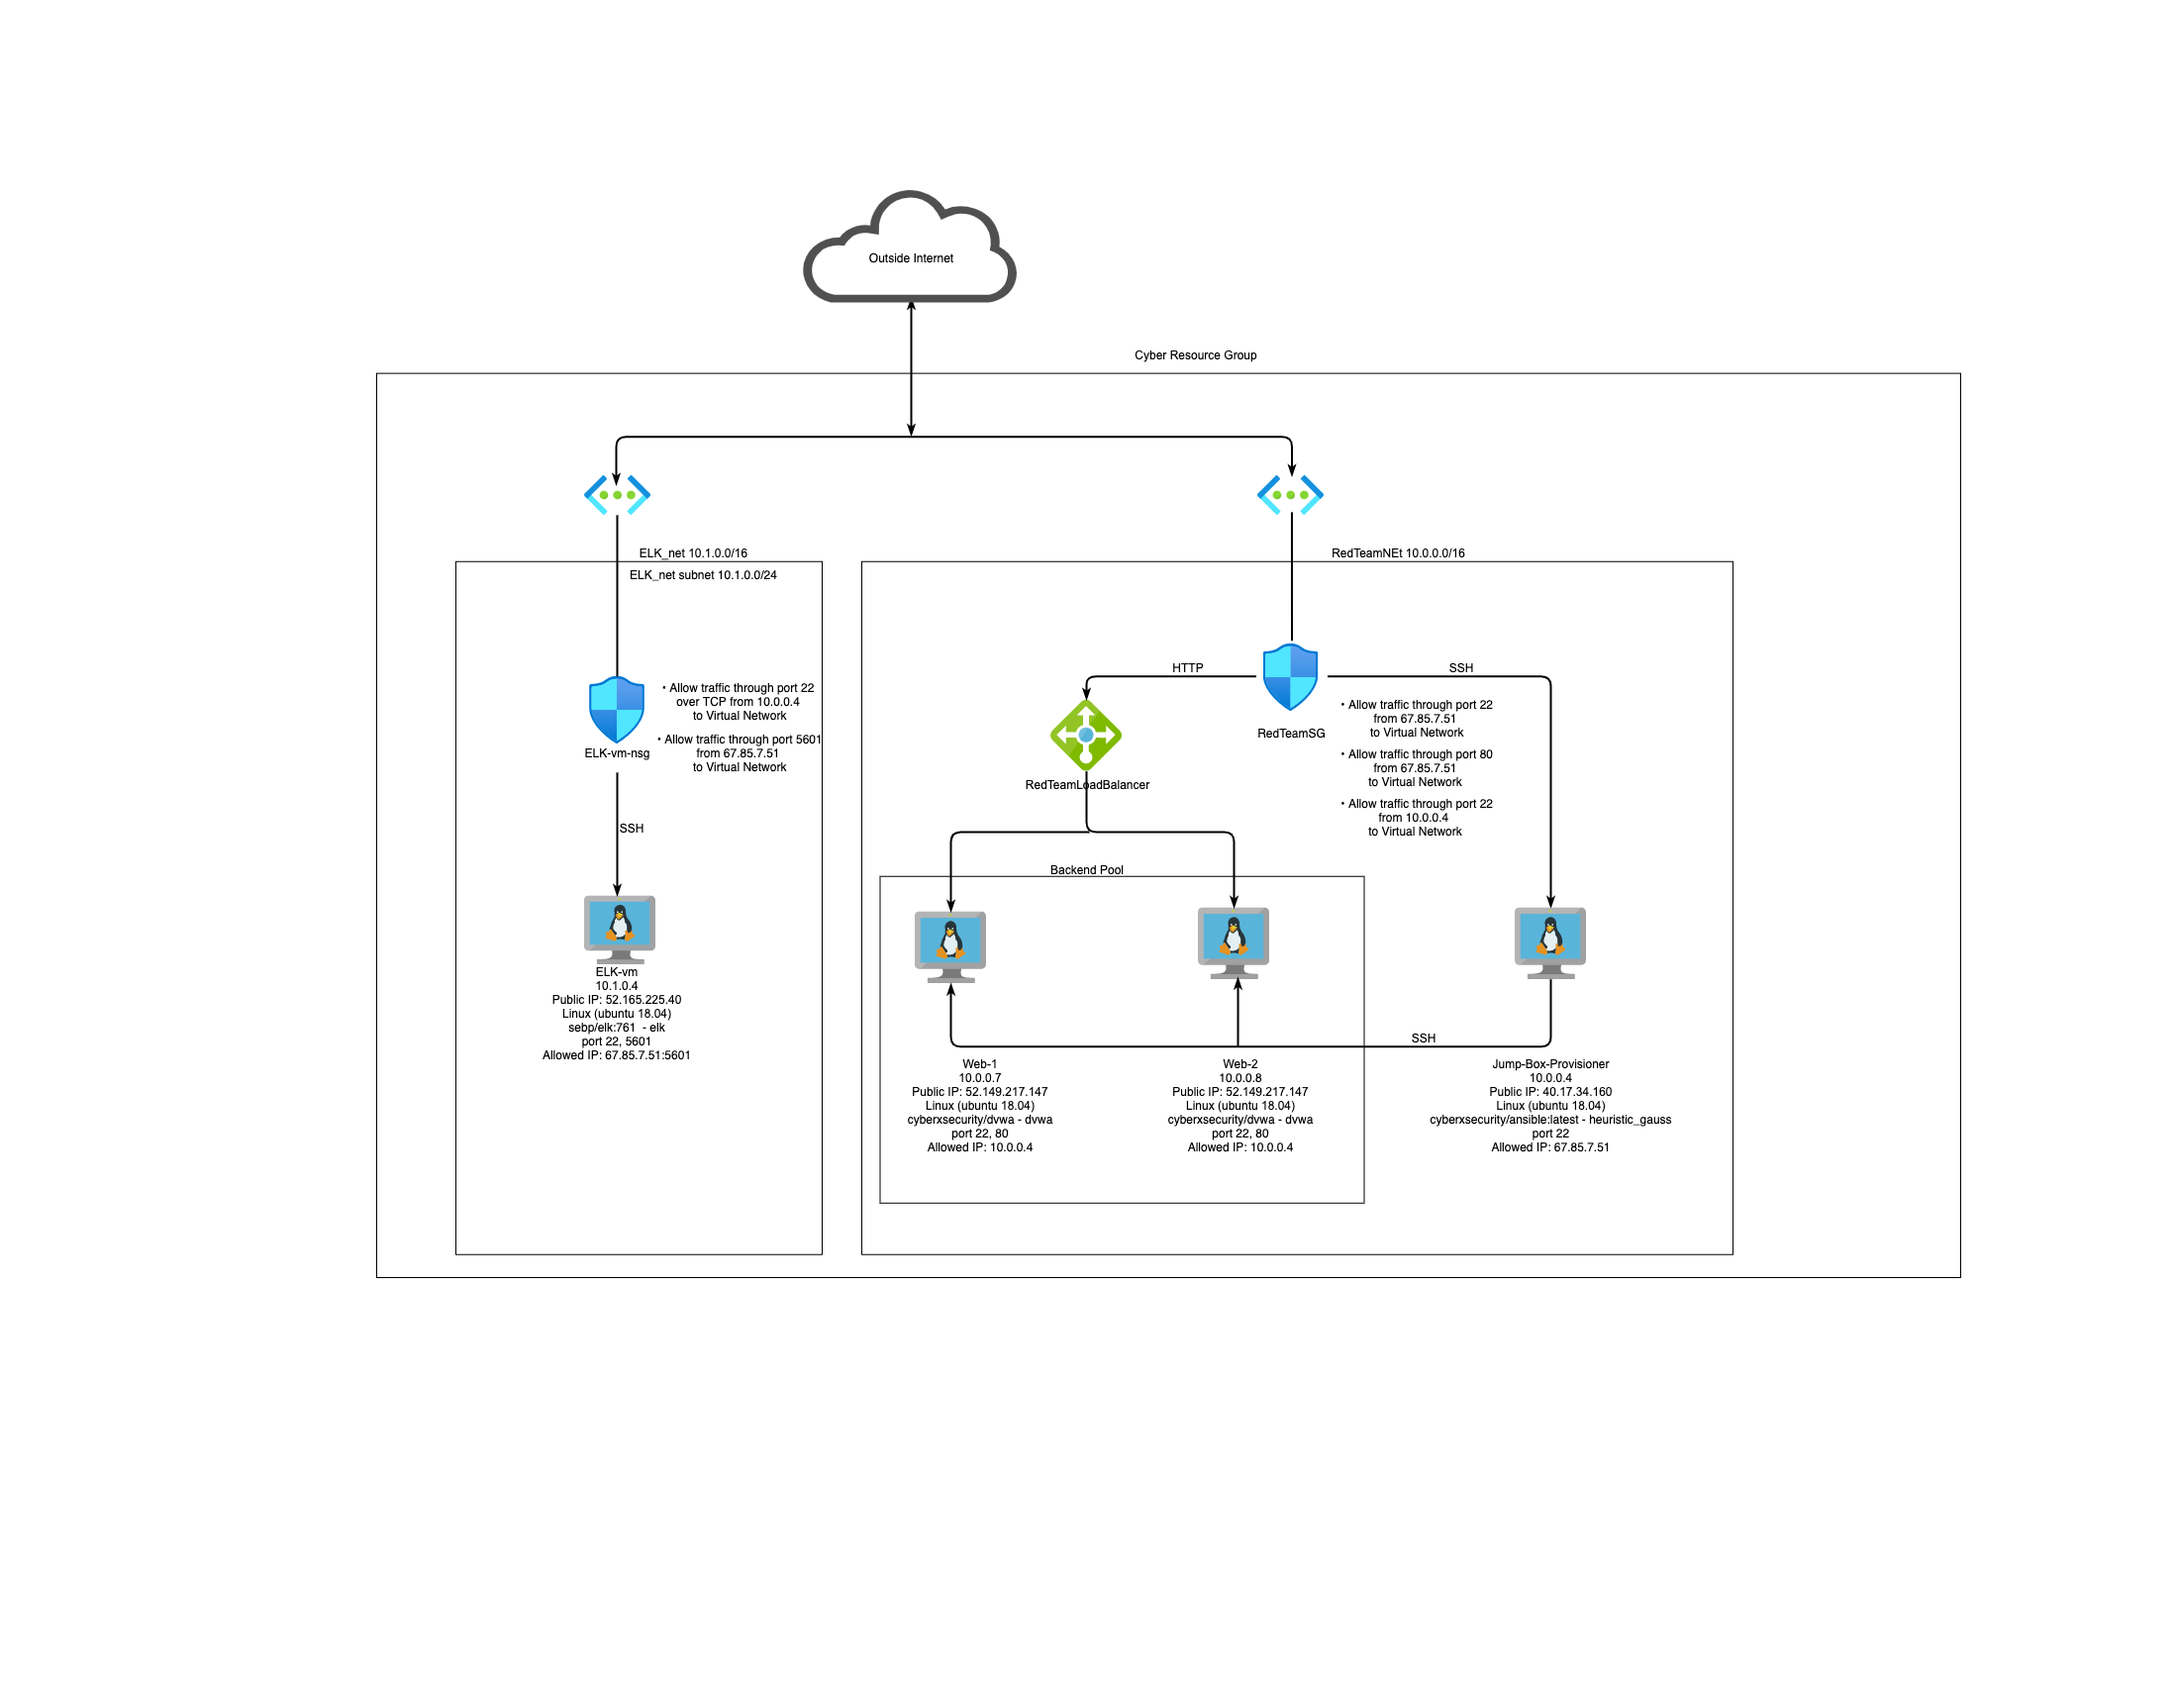
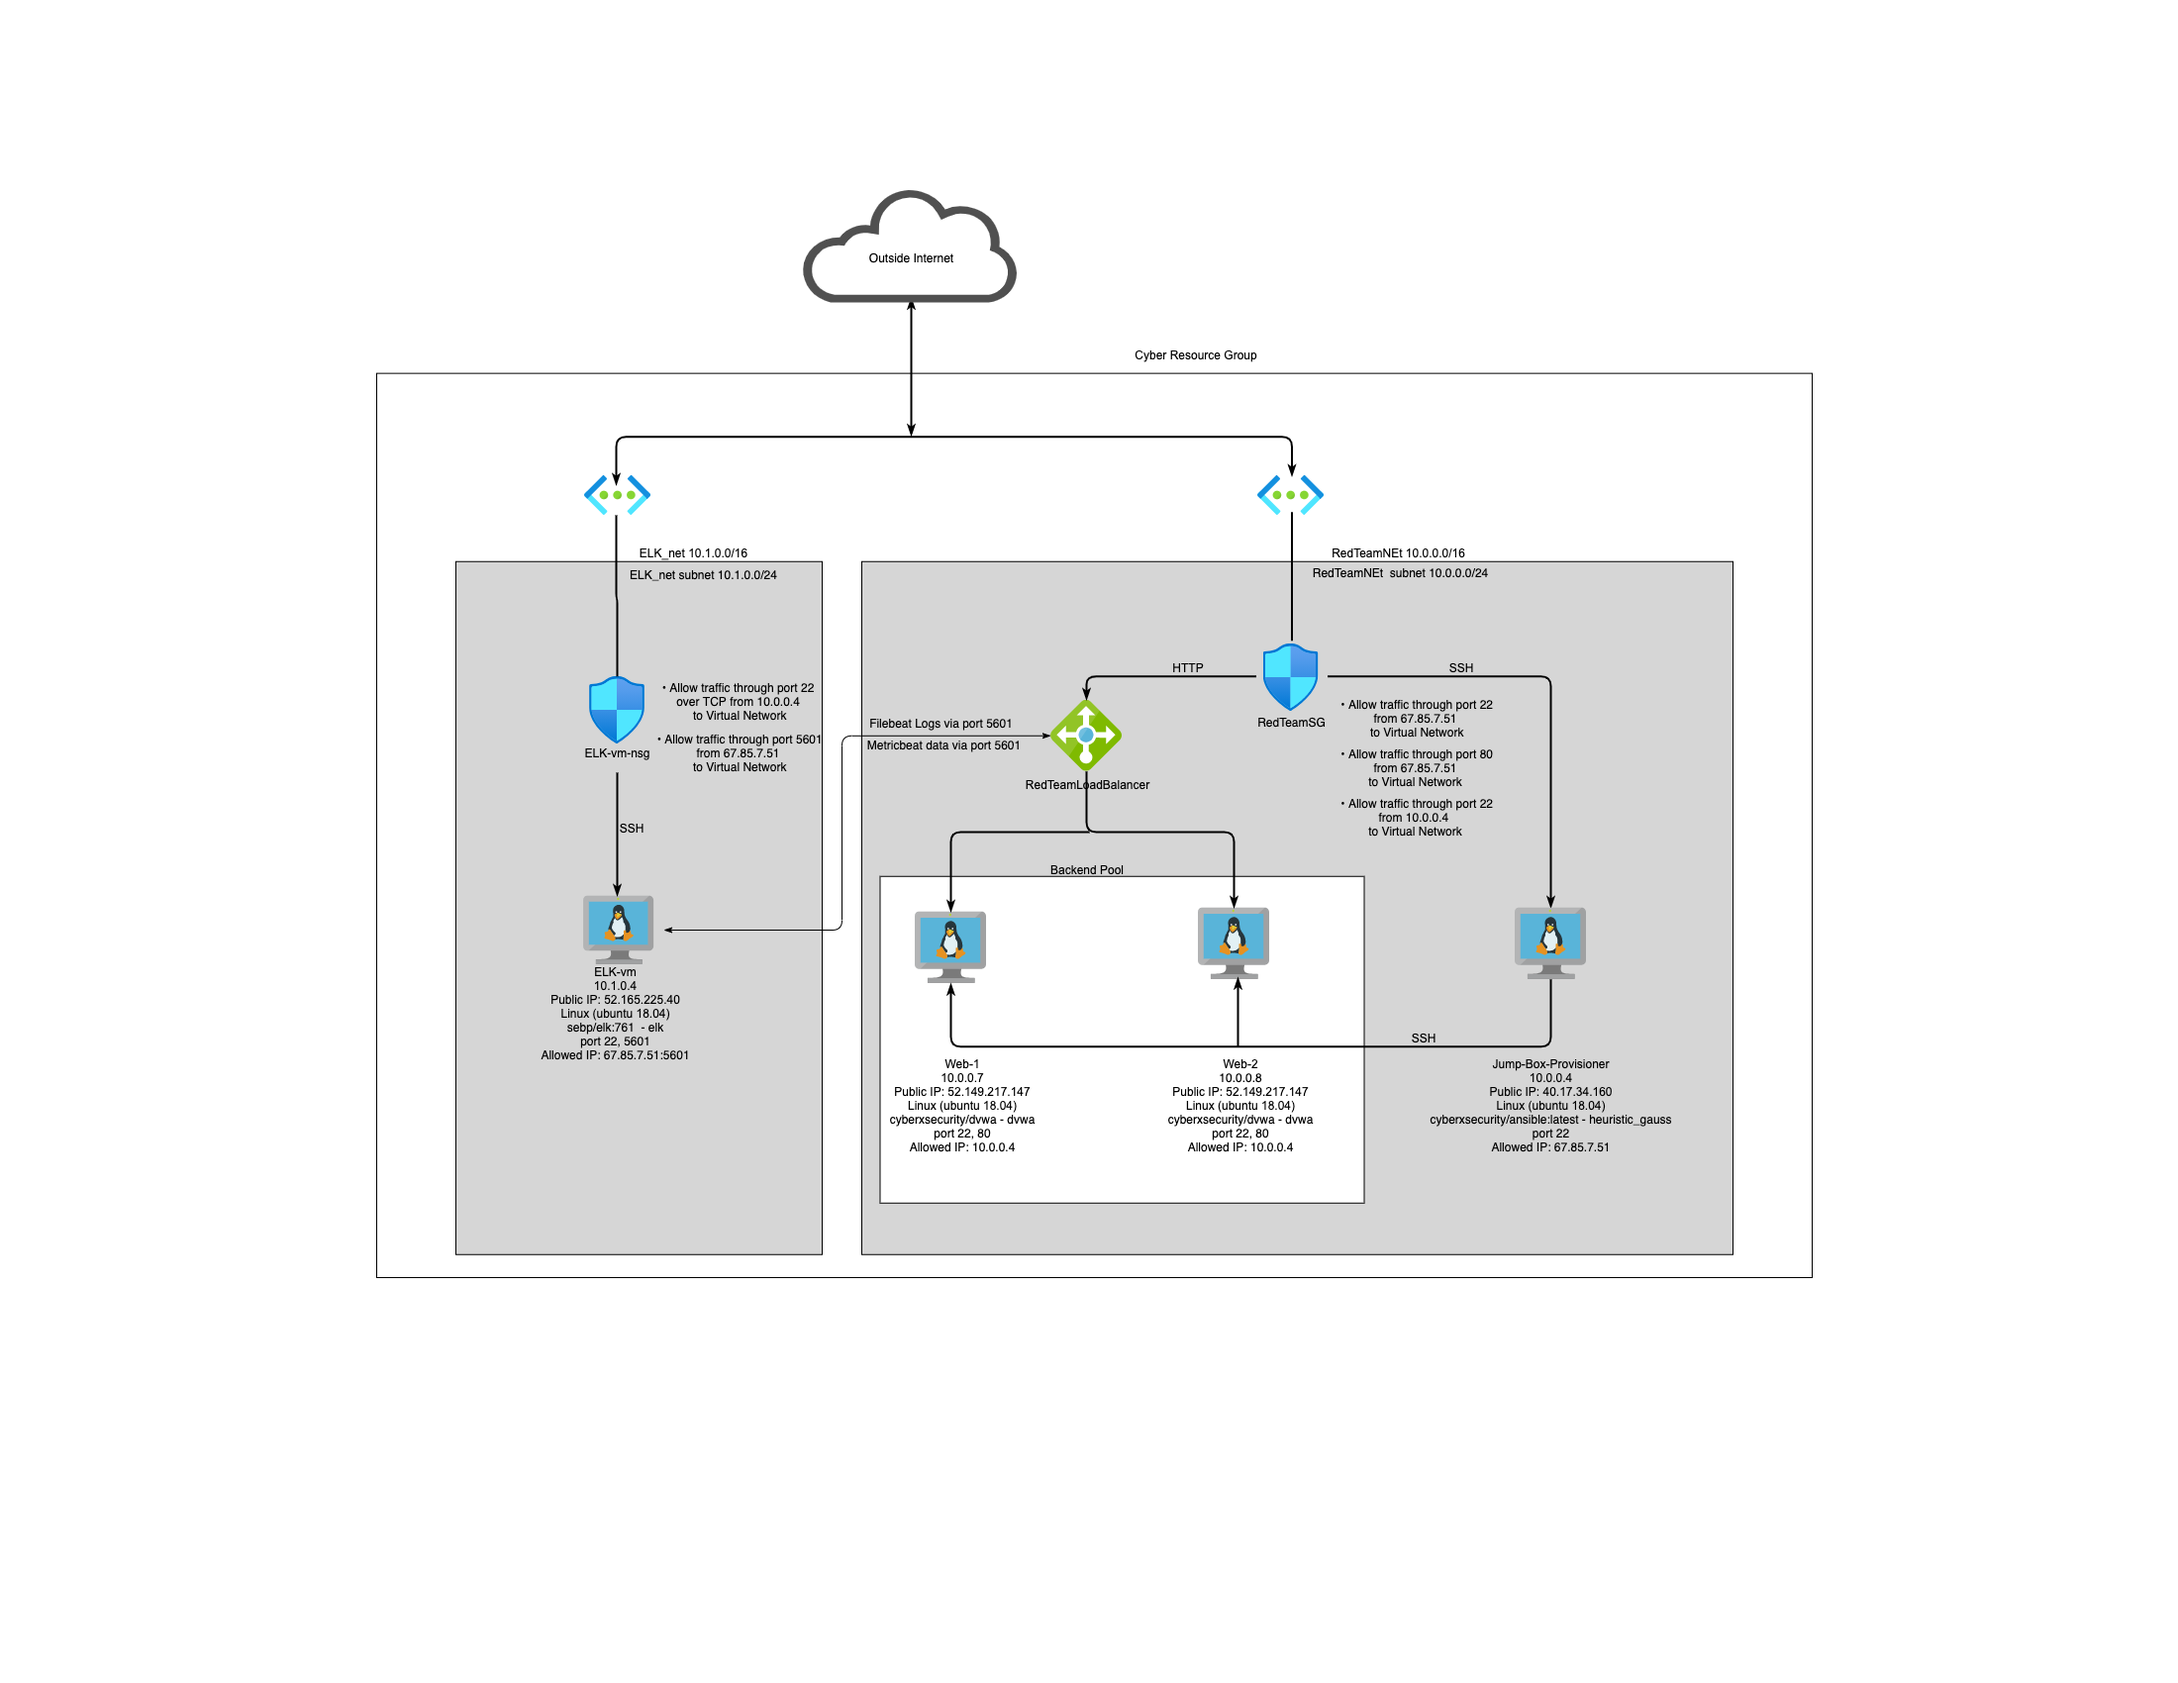
revision to readme and yml files

Changed region(s): [[0.1855, 0.3118, 0.8036, 0.7482]]

diff --git a/README.md b/README.md
@@ -12,7 +12,9 @@ These files have been tested and used to generate a live ELK deployment on Azure
 deployment pictured above. Alternatively, select portions of the playbook file may be used to install only certain pieces of it, such as
 Filebeat.
 
-  - install-elk.yml
+  - **install-elk.yml**
+  - **filebeat-playbook.yml**
+  - **metricbeat-playbook.yml**
 
 This document contains the following details:
 - Description of the Topology
@@ -27,7 +29,7 @@ This document contains the following details:
 
 The main purpose of this network is to expose a load-balanced and monitored instance of DVWA, the D*mn Vulnerable Web Application.
 
-Load balancing ensures that the application will be highly availability, in addition to restricting traffic to the network.
+Load balancing ensures that the application will be highly available, in addition to restricting traffic to the network.
 - Load Balancing has the capability of deflecting DDOS attacks.  It redirects traffic and prevents unnecessary traffic from entering the
   network.  Having a jump box, will ensure that only one machine has admin access.  Thus you have to enter through one machine to access
   the rest of the network.  
@@ -65,26 +67,45 @@ Provisioner.
 A summary of the access policies in place can be found in the
 table below.
 
-| Name     | Publicly Accessible | Allowed IP Addresses |
-|----------|---------------------|----------------------|
-| Jump Box | Yes                 | 67.85.7.51:22, 80    |
-| Web-1    | No                  |                      |
-| Web-2    | No                  |                      |
-| ELK-vm   | Yes                 | 67.85.7.51:5601      |
+| Name     | Publicly Accessible | Allowed IP Addresses  |
+|----------|---------------------|-----------------------|
+| Jump Box | Yes                 | Admins public IP: 22  |
+| Web-1    | No                  |                       |
+| Web-2    | No                  |                       |
+| ELK-vm   | Yes                 | Admins public IP:5601 |
 
 ### Elk Configuration
 
 Ansible was used to automate configuration of the ELK machine.
 No configuration was performed manually, which is advantageous
 because...
-- It frees up time for IT administrators to monitor the network and attend to other important IT tasks.  
+- It frees up time for IT administrators to monitor the network and attend to other important IT tasks.  It also allows one playbook to
+  configure the entire system.
 
 The playbook implements the following tasks:
-- Installs docker and python_TODO
-- Installs python
+- Installs docker.io and python3-pip
+- Installs docker module
 - Increases memory to 262144
 - Downloads and launches the docker elk container
 - Enables docker on boot
+
+For the filebeat playbook, these tasks were implemented:
+- download filebeat deb
+- install filebeat deb
+- drop in filebeat config
+- enable and configure docker module for filebeat
+- setup filebeat
+- start filebeat service
+- enable service filebeat on boot
+
+For the metricbeat playbook, these tasks were implemented:
+- download metricbeat
+- install metricbeat
+- drop in metricbeat config
+- enable and configure docker module for metricbeat
+- setup metricbeat
+- start metricbeat service
+- enable service metricbeat on boot
 
 The following screenshot displays the result of running `docker
 ps` after successfully configuring the ELK instance.
@@ -114,23 +135,20 @@ In order to use the playbook, you will need to have an Ansible control node alre
 provisioned:
 
 SSH into the control node and follow the steps below:
-- Copy the install-elk.yml, filebeat-config.yml, and metricbeat-
-  config.yml files to /etc/ansible/files/.
-- Update the config files to include the host: "10.1.0.4:5601"
-  on line 62 and hosts: ["10.1.0.4:9200"].
-- Update the hosts file in /etc/ansible/ to include the
-  webservers: 10.0.0.7, 10.0.0.8 and elk: 10.1.0.4.
-- Update the ansible.cfg in /etc/ansible to include on line 107:
-  remote_user = azdmin
+- Copy the **install-elk.yml**, **filebeat-config.yml**, and **metricbeat-config.yml** files to */etc/ansible/files/*.
+- Update the config files to include the ```host: "10.1.0.4:5601"``` on line 62 and ```hosts: ["10.1.0.4:9200"]```.
+- Update the hosts file in */etc/ansible/* to include the webservers: 10.0.0.7, 10.0.0.8 and elk: 10.1.0.4.
+- Update the **ansible.cfg** in */etc/ansible/* to include on line 107: ```remote_user = azdmin```
 
 - Run the playbook, and navigate to http://52.165.225.40:5601/ to check that the installation worked as expected.
 
-- The ELK playbook is called install-elk.yml and make sure it is installed in /etc/ansible/files.  Both the filebeat and metricbeat
-  playbook files are called filebeat-playbook.yml and metricbeat-playbook.yml and can be located in /etc/ansible/roles.
-- To update where the ELK playbook is ran, please edit the hosts file located in /etc/ansible/.  You will change the IP address listed
+- The ELK playbook is called **install-elk.yml** and make sure it is installed in */etc/ansible/files/*.  Both the filebeat and metricbeat
+  playbook files are called **filebeat-playbook.yml** and **metricbeat-playbook.yml** and can be located in */etc/ansible/roles/*.
+- To update where the ELK playbook is ran, please edit the hosts file located in */etc/ansible/*.  You will change the IP address listed
   under [elk], this will be line 29.  
-- To specify which machine to install Filebeat or Metricbeat, please edit the filebeat-config.yml or the metricbeat-config.yml located
-  in /etc/ansible/files/.  This will be under Elasticsearch output.  
+- To specify which machine to install Filebeat or Metricbeat, please edit the **filebeat-config.yml** or the **metricbeat-config.yml**
+  located
+  in */etc/ansible/files/*.  This will be under Elasticsearch output.  
 - Goto http://52.165.225.40:5601/
 
 To run the playbook, make sure you are located in the directory where the playbook file is.  Once there, run:
@@ -141,14 +159,14 @@ For filebeat and metricbeat:
 ```ansible-playbook metricbeat-playbook.yml```
 
 To update the playbook, from the directory:
-nano install-elk.yml
+```nano install-elk.yml```
 
 For filebeat and metricbeat:
-nano filebeat-playbook.yml
-nano metricbeat-playbook.yml
+```nano filebeat-playbook.yml```
+```nano metricbeat-playbook.yml```
 
-To configure filebeat, goto /etc/ansible/files:
-nano filebeat-config.yml and change lines 1105 and 1807.  Do not change lines 1106 and 1107.
+To configure filebeat, goto */etc/ansible/files/*:
+```nano filebeat-config.yml``` and change lines 1105 and 1807.  **Do not change lines 1106 and 1107.**
 
-To configure metricbeat, goto /etc/ansible/files:
-nano metricbeat-config.yml and change lines 62 and 93.  Do not change lines 94 and 95.
+To configure metricbeat, goto */etc/ansible/files/*:
+```nano metricbeat-config.yml``` and change lines 62 and 93.  **Do not change lines 94 and 95.**
